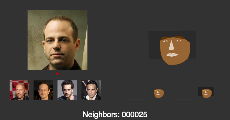
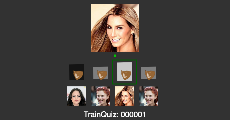
Updated for part5

diff --git a/sketch.js b/sketch.js
@@ -6,6 +6,7 @@ var mainFace;
 var faceImages = [];
 var curFaceIndex = 0;
 var curTrainIndex = 0;
+var curValidIndex = 0;
 var main_canvas;
 var faceSelector;
 var facelist = [];
@@ -23,13 +24,17 @@ var faceData = [
 ]
 
 var trainData = {}
+var trainDataKeys = []
 var trainValues = {}
+var validData = {}
+var validDataKeys = []
 
 var faceMapping = null;
 
 function preload () {
   extraFaceData = loadJSON('face_data.json');
   trainData = loadJSON('train_data.json');
+  validData = loadJSON('valid_data.json');
   trainValues = loadJSON('train_values.json');
 }
 
@@ -87,6 +92,14 @@ function setup () {
     }
     data.image = loadImage(data.url);
   }
+
+  validDataKeys = Object.keys(validData);
+  for(var i=0; i<validDataKeys.length; i++) {
+    var curKey = validDataKeys[i];
+    var data = validData[curKey];
+    data.image = loadImage(data.url);
+  }
+
   // print("Length: ", allEmbeddings.length);
   // setup k-d tree
   var N = allEmbeddings[0].length - 1; 
@@ -100,7 +113,9 @@ function setup () {
   faceSelector.option('FaceMap');
   faceSelector.option('Train');
   faceSelector.option('Neighbors');
-  faceSelector.value('Neighbors');
+  faceSelector.option('TrainQuiz');
+  faceSelector.option('ValidQuiz');
+  faceSelector.value('FaceMap');
   faceSelector.parent('selector1Container');
 
   /* create the sliders */
@@ -182,8 +197,11 @@ function changeRandomSeed() {
 }
 
 function mouseClicked() {
-  changeRandomSeed();
+  // changeRandomSeed();
 }
+
+var quiz_done = false;
+var guessed_answer = 0;
 
 function draw () {
   var mode = faceSelector.value();
@@ -450,6 +468,199 @@ function draw () {
     textDisplay = "Neighbors: " + trainDataKeys[curTrainIndex];
   }
 
+  else if (mode == 'TrainQuiz' || mode == 'ValidQuiz') {
+    var curKey = trainDataKeys[curTrainIndex];
+    var data = trainData[curKey];
+    var valid_mode = false;
+    if (mode == 'ValidQuiz') {
+        valid_mode = true;
+        curKey = validDataKeys[curValidIndex];
+        data = validData[curKey];
+    }
+
+    // Displays the image at its actual size at point (0,0)
+    var img = data.image
+    var x1 = (width/2-200/2);
+    var y1 = (height/3-300/2);
+    image(img, x1, y1, 200, 200);
+    if(valid_mode) {
+      fill(0, 0, 200);
+    }
+    else if (curKey in trainValues) {
+      fill(0, 200, 0);
+    }
+    else {
+      fill(200, 0, 0);
+    }
+    ellipse(x1+200/2, y1+200+15, 10, 10);
+
+    var y2 = (3*height/5-80/2);
+    var y3 = (4*height/5-80/2);
+
+/*
+    for(var i=0; i<4; i++) {
+      // var keys = Object.keys(trainData);
+      var curKey = curNeighbors[i];
+      var nearData = trainData[curKey];      
+
+      // Displays the image at its actual size at point (0,0)
+      var img = nearData.image
+      var x2 = (width/4 - 200 + i*100);
+      image(img, x2, y2, 80, 80);
+    }
+*/
+    for(var i=0; i<1; i++) {
+      // get array of face marker positions [x, y] format
+      var positions = data.landmarks[i];
+      var shifted_positions = JSON.parse(JSON.stringify(positions))
+
+      var data_mean = [0.0, 0.0];
+      var data_scale = 1.0;
+      var data_angle = 0.0;
+      if ('transform' in positions) {
+        data_mean = positions.transform.center;
+        data_scale = positions.transform.scale;
+        data_angle = positions.transform.angle;
+        delete shifted_positions.transform
+      }
+      var scale_x = 400.0 / img.width;
+      var scale_y = 400.0 / img.height;
+
+      Object.keys(positions).forEach(function(key) {
+        if (key=='transform') {
+          return;
+        }
+        var curSection = positions[key];
+        var shiftedSection = shifted_positions[key];
+        for (var i=0; i<curSection.length; i++) {
+          var cur_x = curSection[i][0];
+          var cur_y = curSection[i][1];
+          // get ready for drawing the face
+          shiftedSection[i][0] = cur_x;
+          shiftedSection[i][1] = cur_y;
+        }
+      });
+
+
+/*
+      var scale_x = 250.0 / img.width;
+      var scale_y = 250.0 / img.height;
+      var x2 = (3*width/4-250/2);
+      push();
+      translate(x2, y1);
+      translate(scale_x*data_mean[0], scale_y*data_mean[1]);
+      scale(scale_x*data_scale, scale_y*data_scale);
+      rotate(degrees(data_angle));
+      strokeWeight(1/data_scale);
+      mainFace.setProperties(params);
+      mainFace.draw(shifted_positions);
+      pop();
+*/
+
+      var scale_x = 80.0 / img.width;
+      var scale_y = 80.0 / img.height;
+      var otherKeys = Object.keys(trainValues);
+      var index = otherKeys.indexOf(trainDataKeys[curTrainIndex]);
+      if(index >= 0) {
+        otherKeys.splice(index, 1);
+      }
+      var answerSlot = int(focusedRandom(0, 4));
+      var answerKeys = Array(4);
+      for(var j=0; j<4; j++) {
+        if(j == answerSlot) {
+          curKey = trainDataKeys[curTrainIndex];
+        }
+        else {
+          var guess = int(focusedRandom(0, otherKeys.length));
+          // if(otherKeys.length > j+2) {
+          //   while(answerKeys.indexOf(guess) == -1) {
+          //     guess = int(focusedRandom(0, otherKeys.length));
+          //   }            
+          // }
+          curKey = otherKeys[guess];
+        }
+        answerKeys[j] = curKey;
+        // print("Answer", j, " is ", curKey);
+        var x2 = (width/2 - 200 + j*100);
+
+        var settings = params;
+        if (valid_mode && j == answerSlot) {
+            var curEmbedding = data.embedding[0];
+            results = getAverageSettingsFrom(curEmbedding);
+            settings = results[0];
+            var validTrainKeys = results[1];
+        }
+        else if (curKey in trainValues) {
+            settings = trainValues[curKey];
+        }
+        push();
+        translate(x2, y2);
+        translate(scale_x*data_mean[0], scale_y*data_mean[1]);
+        scale(scale_x*data_scale, scale_y*data_scale);
+        rotate(degrees(data_angle));
+        strokeWeight(1/data_scale);
+        littleFace.setProperties(settings);
+        littleFace.draw(shifted_positions);
+        pop();
+        if(quiz_done && guessed_answer == (j+1)) {          
+          push();
+          translate(x2, y2);
+          noFill();
+          strokeWeight(4);
+          if(guessed_answer == (answerSlot+1)) {
+            stroke(0, 100, 0);
+          }
+          else {
+            stroke(100, 0, 0);
+          }
+          rect(-10, -10, 100, 100);
+          pop();
+        }
+      }
+      if(quiz_done) {
+        for(var j=0; j<4; j++) {
+          if (valid_mode && (answerSlot+1) == (j+1)) {
+            for(var k=0; k<4; k++) {
+              var curKey = validTrainKeys[k];
+              var nearData = trainData[curKey];      
+              // Displays the image at its actual size at point (0,0)
+              var img = nearData.image
+              var x2 = (width/2 - 200 + j*100 + (k%2)*40);
+              var y4 = y3 + (int(k/2))*40;
+              image(img, x2, y4, 40, 40);              
+            }
+          }
+          else {
+            var curKey = answerKeys[j];
+            var nearData = trainData[curKey];      
+            // Displays the image at its actual size at point (0,0)
+            var img = nearData.image
+            var x2 = (width/2 - 200 + j*100);
+            image(img, x2, y3, 80, 80);            
+          }
+        }          
+      }
+    }
+
+    if(valid_mode) {
+      if(quiz_done) {
+        textDisplay = "ValidQuiz: hit spacebar to continue";
+      }
+      else {
+        textDisplay = "ValidQuiz: hit 1, 2, 3, or 4 to guess";        
+      }
+    }
+    else {
+      if(quiz_done) {
+        textDisplay = "TrainQuiz: hit spacebar to continue";
+      }
+      else {
+        textDisplay = "TrainQuiz: hit 1, 2, 3, or 4 to guess";        
+      }
+    }
+  }
+
+
   fill(255);
   textSize(32);
   textAlign(CENTER);
@@ -461,19 +672,43 @@ function keyTyped() {
     return;
   }
   var mode = faceSelector.value();
-  if (key == '1' && mode != 'Face') {
+  if (key == 'q' && mode != 'Face') {
     print("face")
     faceSelector.value('Face');
   }
-  else if (key == '2' && mode != 'FaceMap') {
+  else if (key == 'w' && mode != 'FaceMap') {
     print("facemap")
     faceSelector.value('FaceMap');
   }
-  else if (key == '3' && mode != 'Train') {
+  else if (key == 'e' && mode != 'Train') {
     faceSelector.value('Train');
   }
-  else if (key == '4' && mode != 'Neighbors') {
+  else if (key == 'r' && mode != 'Neighbors') {
     faceSelector.value('Neighbors');
+  }
+  else if (key == 't' && mode != 'TrainQuiz') {
+    faceSelector.value('TrainQuiz');
+  }
+  else if (key == 'y' && mode != 'ValidQuiz') {
+    faceSelector.value('ValidQuiz');
+  }
+
+  if (key == ' ' && 
+    (mode == 'TrainQuiz' || mode == 'ValidQuiz') && quiz_done) {
+    quiz_done = false;
+    if(mode == 'TrainQuiz') {
+        curTrainIndex = (curTrainIndex + 1) % trainDataKeys.length;
+    }
+    else {
+        curValidIndex = (curValidIndex + 1) % validDataKeys.length;
+    }
+    changeRandomSeed();    
+  }
+  else if ((mode == 'TrainQuiz' || mode == 'ValidQuiz') && quiz_done == false) {
+    if(key >= '1' && key <= '4') {
+      guessed_answer = key - '0';
+      quiz_done = true;
+    }
   }
 
   if (key == 's') {
@@ -559,6 +794,43 @@ function updateSlidersForTraining() {
   // else {
   //   loadCurrentSettings();
   // }
+}
+
+function getAverageSettingsFrom(e) {
+  // first find the closest neighbors
+  var nearest = allEmbeddingsTree.nearest(e, 4);
+  curNeighbors = [];
+  curNeighborSettings = [];
+  for(var i=0; i<4; i++) {
+    var neighborKey = nearest[i][0][128];
+    curNeighbors.push(neighborKey);
+    if(neighborKey in trainValues) {
+      curNeighborSettings.push(trainValues[neighborKey]);
+    }
+  }
+
+  for(var i=0; i<4; i++) {
+    neighborKey = curNeighbors[i]
+    if(neighborKey in trainValues) {
+      curNeighborSettings.push(trainValues[neighborKey]);
+    }
+  }
+
+  var trainValueKeys = Object.keys(trainValues);
+  var props = trainValues[trainValueKeys[0]];
+
+  if(curNeighborSettings.length > 0) {
+    settings = curNeighborSettings[0];
+    for(var i=0; i<settings.length; i++) {
+      var sum = 0;
+      for(j=0; j<curNeighborSettings.length; j++) {
+        sum += curNeighborSettings[j][i];
+      }
+      var avg = int(sum / curNeighborSettings.length)
+      props[i] = avg;
+    }
+  }
+  return [props, curNeighbors];
 }
 
 function keyPressed() {
